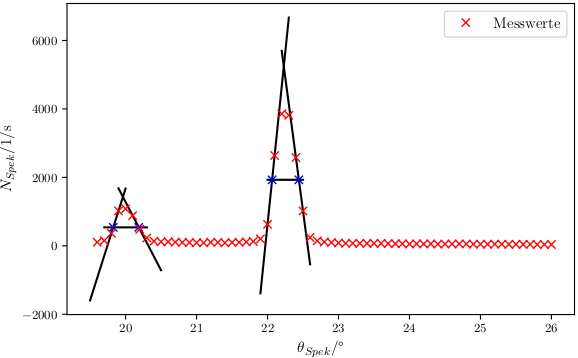
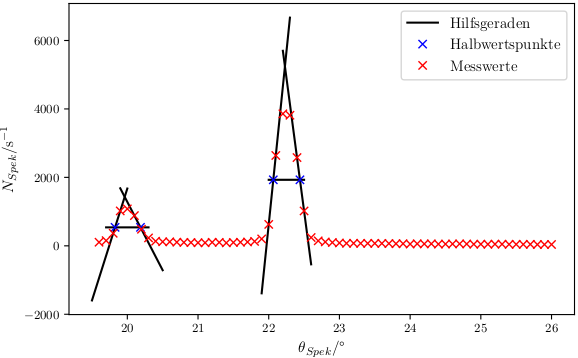
Absorption fehlt noch

diff --git a/25-Praktikum-V602/content/auswertung.tex b/25-Praktikum-V602/content/auswertung.tex
@@ -18,14 +18,73 @@ Der Winkel bei dem das Maximum der Impulsrate $N$ erreicht ist, lässt sich able
 \end{table}
 
 \subsection{Das Emissionsspektrum}
-In Abbildung \ref{fig:emission} ist das aufgenommene Emissionsspektrum der Röntgenröhre im Bereich von $\theta=\SI{4}{\degree}$ bis $\SI{26}{\degree}$ und in Abbildung \ref{fig:Brems} ein näherer Ausschnitt des Bremsbergs zu sehen. Die zugehörigen Werte finden sich in Tabelle \ref{tab:tab2}.
-Der Grenzwinkel lässt sich ablesen zu 
+\subsubsection{Die minimale Wellenlänge}
+In Abbildung \ref{fig:emission} ist das aufgenommene Emissionsspektrum der Röntgenröhre im Bereich von $\theta=\SI{4}{\degree}$ bis $\SI{26}{\degree}$ zu sehen. Die zugehörigen Werte finden sich in Tabelle \ref{tab:tab2}.
+Der Grenzwinkel lässt sich aus Abbildung \ref{fig:brems} ablesen zu 
 \[\theta_.{gr}=\SI{5}{\degree}\]
 und damit die minimale Wellenlänge nach Formel \eqref{eq:} zu
 \[
 \lambda_.{min}=\SI{35,1}{\pico\metre}\text{.}
 \]
-Der Literaturwert berechnet sich mit der Elektronenladung $e_.0$, dem Planckschen Wirkungsquantum $h$ und der Lichtgeschwindigkeit im Vakuum $c$ zu
+und die maximale kinetische Energie 
+\[
+E_.{kin,max}=\SI{35316}{\eV}
+\] 
+Die Literaturwerte berechnet sich mit der Elektronenladung $e_.0$, dem Planckschen Wirkungsquantum $h$ und der Lichtgeschwindigkeit im Vakuum $c$ zu
 \[
 \lambda_.{min,theo}=\frac{hc}{e_.0U_.B}=\SI{35,4}{\pico\metre}
 \]
+und
+\[
+E_.{max,theo}=e_.0U_.B=\SI{35000}{\eV}
+\]
+
+\subsubsection{Das Auflösungsvermögen}
+
+In Abbildung \ref{fig:Peak} ist eine Vergrößerung der Peaks der $K_.{\alpha}$- und $K_.{\beta}$-Linie zu sehen.
+Zur Bestimmung der Halbwertsbreite werden die Werte für $\theta$ der Geraden
+\begin{align*}
+g_.1(\theta)&=\SI{6540}{\per\second\per\degree}\cdot\theta-\SI{129126}{\per\second}\text{,}\\
+g_.2(\theta)&=\SI{-3990}{\per\second\per\degree}\cdot\theta+\SI{81082}{\per\second}
+\end{align*}
+gesucht bei denen gilt $g_.{1/2}(\theta)=\frac{N_.{\alpha,max}}{2}=\SI{540}{\per\second}$
+und die bei denen für die Geraden
+\begin{align*}
+g_.3(\theta)&=\SI{20140}{\per\second\per\degree}\cdot\theta-\SI{442454}{\per\second}\text{,}\\
+g_.4(\theta)&=\SI{-15600}{\per\second\per\degree}\cdot\theta+\SI{352019}{\per\second}
+\end{align*}
+gilt $g_.{3/4}(\theta)=\frac{N_.{\beta,max}}{2}=\SI{1929}{\per\second}$
+Daraus ergeben sich die Werte
+\begin{align*}
+\theta_.3&=\theta_.{\alpha-}=\SI{22,06}{\degree}\text{,}\\
+\theta_.4&=\theta_.{\alpha+}=\SI{22,44}{\degree}\text{,}\\
+\theta_.1&=\theta_.{\beta-}=\SI{19,83}{\degree}\text{,}\\
+\theta_.2&=\theta_.{\beta+}=\SI{20,19}{\degree}
+\end{align*}
+und mit Gleichung \ref{eq:E} für das Auflösungsvermögen
+\begin{align*}
+\Delta E_.{\alpha}&=\SI{130,7}{\eV}\\
+\Delta E_.{\beta}&=\SI{155,0}{\eV}
+\end{align*}
+
+\subsubsection{Die Abschirmkoeffizienten von Cu}
+
+Die Maxima der $K_.{\alpha}$- und $K_.{\beta}$-Linie lassen sich ablesen zu
+\begin{align*}
+\theta_.{\alpha,max}&=\SI{22,2}{\degree}\text{,}\\
+\theta_.{\beta,max}&=\SI{20,0}{\degree}\text{.}
+\end{align*}
+Mit Gleichung \ref{eq:E} ergeben sich so
+\begin{align*}
+E_.{K_.{\alpha}}&=\SI{8641}{\eV}\text{,}\\
+E_.{K_.{\beta}}&=\SI{9000}{\eV}\text{.}
+\end{align*}
+Damit lassen sich nun die Abschirmkoeffizienten $\sigma_.K$,$\sigma_.L$ und $\sigma_.M$ mithilfe von Gleichung \ref{eq:} und der Kernladungszahl des Kupfers $z=29$ bestimmen zu
+\begin{align*}
+\sigma_.K&=z-\sqrt{\frac{E_.{K_.{\beta}}}{R_.{\inf}}}=3,28\text{,}\\
+\sigma_.L&=z-\sqrt{\left(z-\sigma_.K\right)^2-\frac{E_.{K_.{\alpha}}}{R_.{\inf}}}=13,16\text{,}\\
+\sigma_.M&=z-\sqrt{\left(z-\sigma_.K\right)^2-\frac{E_.{K_.{\beta}}}{R_.{\inf}}}=29
+\end{align*}
+
+\subsection{Das Absorptionsspektrum}
+

diff --git a/25-Praktikum-V602/scripts/mainscriptw.py b/25-Praktikum-V602/scripts/mainscriptw.py
@@ -78,24 +78,13 @@ theta_Spek,N_Spek = np.genfromtxt('scripts/3.7.18Spektrum.txt',unpack=True)
 makeTable([theta_Spek,N_Spek], r'{'+r'$\theta_.{Spek}/\si{\degree}$'+r'} & {'+r'$N/\si{1\per\second}$'+r'}', 'tabSpektrum',['S[table-format=2.1]', 'S[table-format=4.0]'],["%2.1f","%4.0f"])
 
 
-'''
-plt.cla()
-plt.clf()
-plt.plot(theta_Spek,N_Spek,'rx',label='Messwerte')
-plt.xlabel(r'$\theta_{Spek}/\si{\degree}$')
-plt.ylabel(r'$N_{Spek}/\si{1\per\second}$')
-plt.legend(loc='best')
-plt.tight_layout(pad=0, h_pad=1.08, w_pad=1.08)
-plt.savefig('content/images/Spektrum.png')
 
-print('spektrum done')
-'''
 
 plt.cla()
 plt.clf()
 plt.plot(theta_Spek[0:156],N_Spek[0:156],'rx',label='Messwerte')
 plt.xlabel(r'$\theta_{Spek}/\si{\degree}$')
-plt.ylabel(r'$N_{Spek}/\si{1\per\second}$')
+plt.ylabel(r'$N_{Spek}/\si{\per\second}$')
 plt.legend(loc='best')
 plt.tight_layout(pad=0, h_pad=1.08, w_pad=1.08)
 plt.savefig('content/images/konstSpektrum.png')
@@ -125,28 +114,28 @@ def const2(x):
 
 schnitt_plot=np.linspace(19.7,20.3)
 schnitt_plot2=np.linspace(22.0,22.5)
-
+'''
 plt.cla()
 plt.clf()
 plt.plot(schnitt_plot2,const2(schnitt_plot),'k-')
 plt.plot(schnitt_plot,const1(schnitt_plot),'k-')
-plt.plot(a_plot,f(a_plot),'k-')
+plt.plot(a_plot,f(a_plot),'k-', label='Hilfsgeraden')
 plt.plot(b_plot,g(b_plot),'k-')
 plt.plot(a_plot2,f2(a_plot2),'k-')
 plt.plot(b_plot2,g2(b_plot2),'k-')
-plt.plot(22.44167,const2(22.44166),'bx')
+plt.plot(22.44167,const2(22.44166),'bx',label='Halbwertspunkte')
 plt.plot(22.0646971,const2(22.0646971),'bx')
 plt.plot(19.8266055,const1(19.8266055),'bx')
 plt.plot(20.1859649,const1(20.1859649),'bx')
 plt.plot(theta_Spek[156:221],N_Spek[156:221],'rx',label='Messwerte')
 plt.xlabel(r'$\theta_{Spek}/\si{\degree}$')
-plt.ylabel(r'$N_{Spek}/\si{1\per\second}$')
+plt.ylabel(r'$N_{Spek}/\si{\per\second}$')
 plt.legend(loc='best')
 plt.tight_layout(pad=0, h_pad=1.08, w_pad=1.08)
 plt.savefig('content/images/PeakSpektrum.png')
-
-DEa=const.value("Planck constant")*const.c/(2*d*np.sin((20.1859649-19.8266055)*np.pi/180))
-DEb=const.value("Planck constant")*const.c/(2*d*np.sin((22.44167-22.0646971)*np.pi/180))
+'''
+DEa=(-const.value("Planck constant")*const.c/(2*d*np.sin((20.1859649)*np.pi/180))+const.value("Planck constant")*const.c/(2*d*np.sin((19.8266055)*np.pi/180)))/const.e
+DEb=(-const.value("Planck constant")*const.c/(2*d*np.sin((22.44167)*np.pi/180))+const.value("Planck constant")*const.c/(2*d*np.sin((22.0646971)*np.pi/180)))/const.e
 
 print('b-: ', 19.8266055)
 print('b+: ', 20.1859649)

diff --git a/25-Praktikum-V602/content/theorie.tex b/25-Praktikum-V602/content/theorie.tex
@@ -53,7 +53,10 @@ Zur Bestimmung von $\sigma_.L$ der L-Kante, wird die Energiedifferenz $\Delta E_
 2d\sin\theta = n\lambda\text{.}\label{eq:Bragg}
 \end{equation}
 Diese folgt aus der Bragg-Reflexion (Abbildung \ref{fig:Bragg}), bei der die Röntgenstrahlung auf ein dreidimensionales Gitter mit der Gitterkonstanten $d$ fällt. Dort wird sie an jedem Atom gebeugt, sodass bei dem Glanzwinkel $\theta$ konstruktive Interferenz beobachtet werden kann.
-
+Mit Gleichung \ref{eq:lambda_min} ergibt sich somit
+\begin{equation}
+E(\theta)=\frac{hc}{2d\sin{(\theta)}}\label{eq:E}
+\end{equation}
 \begin{figure}
 \centering
 \includegraphics[scale=0.2]{content/images/BraggReflexion.png}
